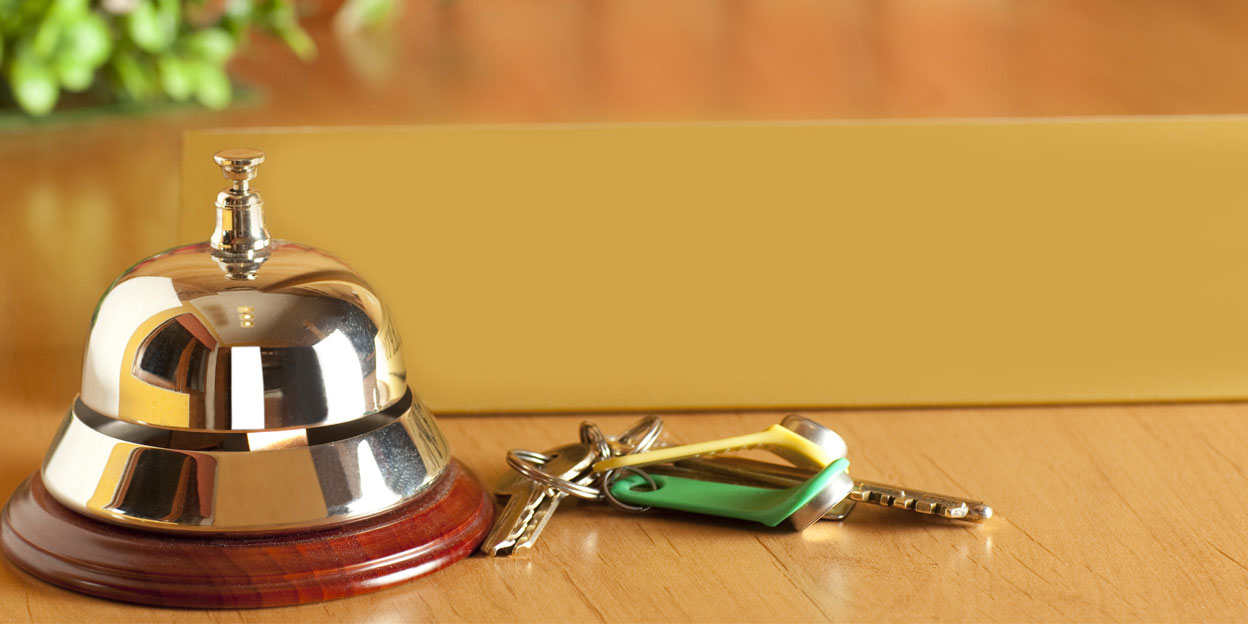
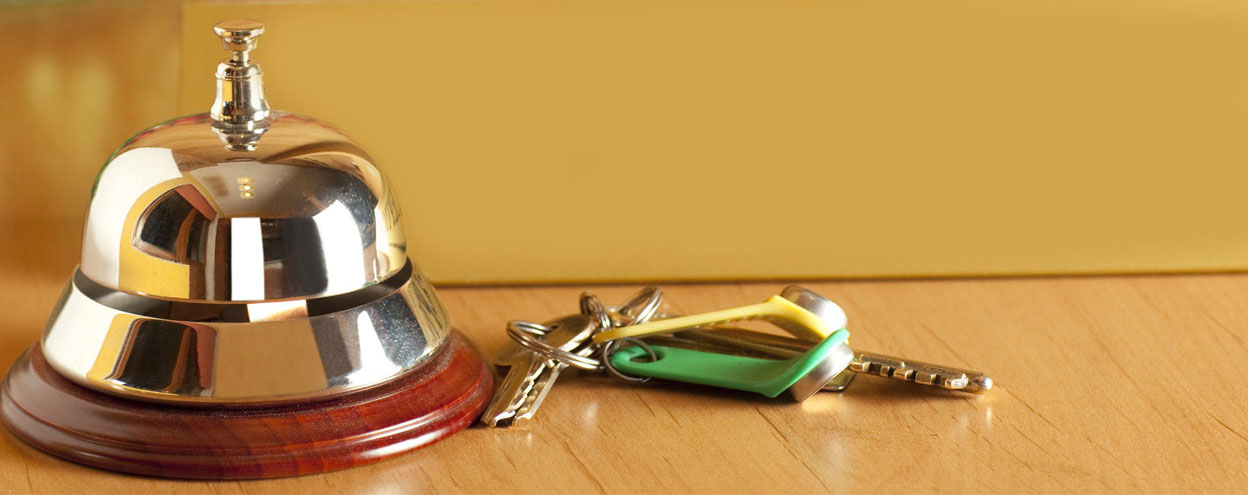
update

diff --git a/inn/css/medium.css b/inn/css/medium.css
@@ -10,6 +10,11 @@
         grid-row: 1 / 2;
     }
 
+    #home #call-act {
+        padding: .8rem 3rem;
+        font-size: 2.5rem;
+    }
+
     #home #ref-temple {
         grid-column: 1 / 5;
         grid-row: 2 / 3;
@@ -29,7 +34,7 @@
 
     #home #ref-temple p, h3 {
         grid-column: 3 / 5;
-        margin: 0rem .8rem;
+        margin: 0rem 1rem;
     }
 
     #home #ref-temple h3 {
@@ -77,8 +82,17 @@
 
     #home #serv-info h3 {
         position: absolute;
-        padding: 1rem 2.5rem 0 .3rem;
+        padding: 1rem 3rem 0 1rem;
         color: var(--black);
+    }
+
+    #home #serv-info img:hover {
+        box-shadow: var(--blue) .1rem .2rem 2rem 1rem;
+    }
+
+    #home #serv-info h3:hover {
+        color: var(--white);
+        text-shadow: var(--black) .1rem .1rem .5em;
     }
 
     #home #for-free {

diff --git a/inn/css/small.css b/inn/css/small.css
@@ -149,7 +149,7 @@ header #callusBtn.come img {
 
 #home #call-act {
     position: absolute;
-    margin: 15% 5% 0 40%;
+    margin: 15% 5% 0 35%;
     font-size: 2rem;
     background-color: rgba(255, 255, 255, 65%);
     padding: .5rem 1rem;
@@ -235,6 +235,11 @@ header #callusBtn.come img {
 
 #social {
     text-align: center;
+    background-color: var(--lgreen);
+}
+
+#social h2 {
+    padding-top: .5rem;
 }
 
 #home #social ul {
@@ -242,7 +247,8 @@ header #callusBtn.come img {
     display: grid;
     grid-template-columns: 1fr 1fr 1fr 1fr;
     padding: 0;
-    margin: .5rem 2rem;
+    padding-bottom: .5rem;
+    margin: .5rem 2rem 0;
 }
 
 #social li img {

diff --git a/inn/index.html b/inn/index.html
@@ -87,7 +87,7 @@
         </section>
 
         <section id="serv-info">
-            <a href=""><h3>See our Specialized Services</h3>
+            <a href=""><h3>Click here to see our Specialized Services</h3>
             <picture>
                 <source media="(min-width: 1024px)" srcset="../inn/images/reception500.jpg">
                 <source media="(min-width: 520px)" srcset="../inn/images/reception300.jpg">
